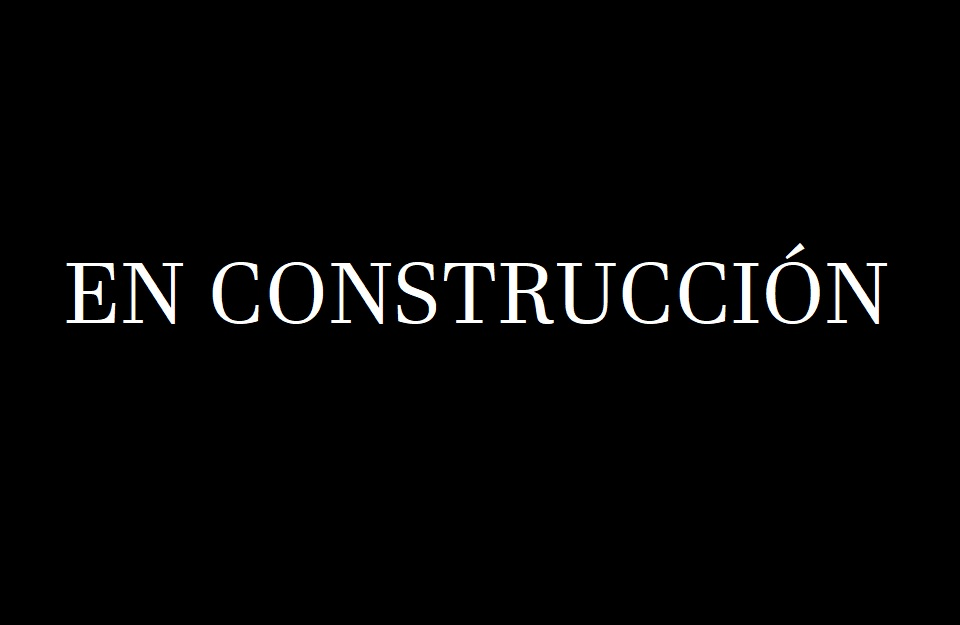
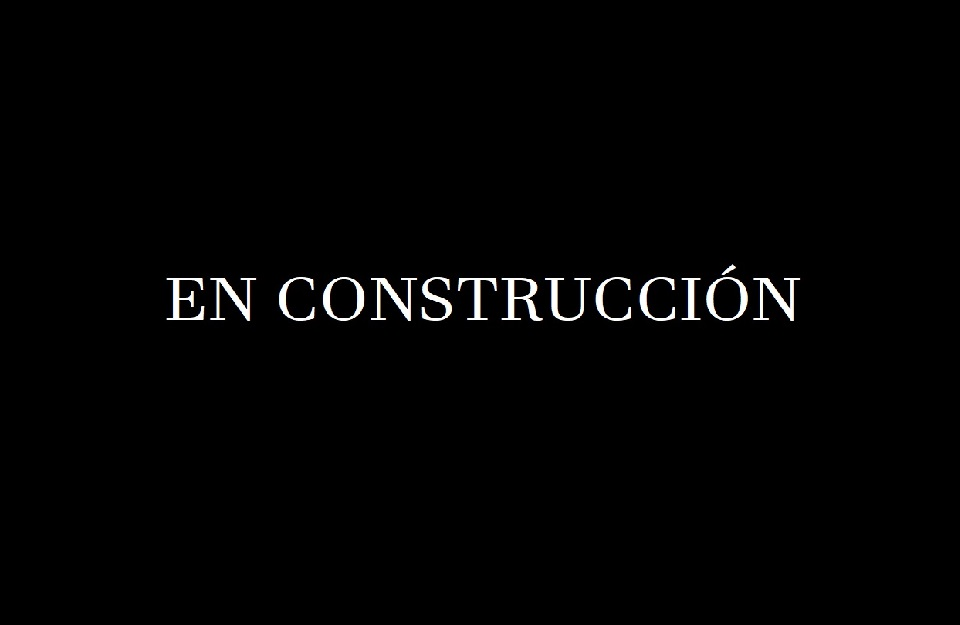
fix image

Changed region(s): [[0.0625, 0.3952, 0.9375, 0.5168]]

diff --git a/index.html b/index.html
@@ -92,13 +92,13 @@
                 </div>
                 <div class="project">
                     <a href="#" target="_blank">
-                        <img class="project-image" src="img/under_construction.png" alt="project"/>
+                        <img class="project-image" src="img/under-construction.jpg" alt="project"/>
                         <p class="project-title">En construcción</p>
                     </a>
                 </div>
                 <div class="project">
                     <a href="#" target="_blank">
-                        <img class="project-image" src="img/under_construction.png" alt="project"/>
+                        <img class="project-image" src="img/under-construction.jpg" alt="project"/>
                         <p class="project-title">En construcción</p>
                     </a>
                 </div>
